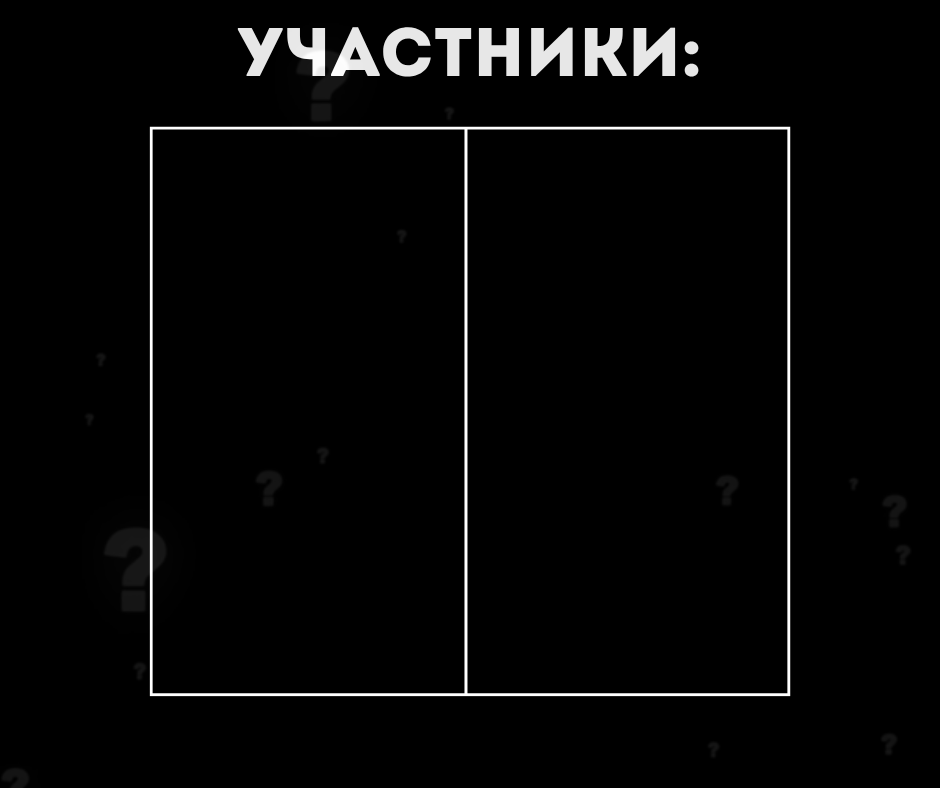
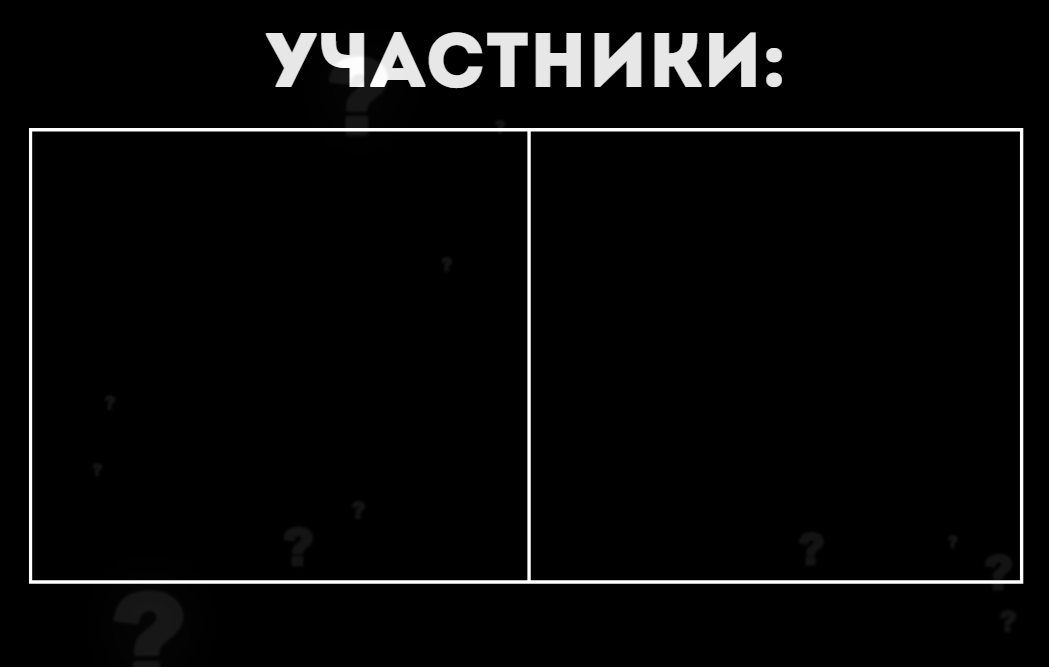
были произведены улучшения и исправления с сообщениями при драфте(с картинками)

Changed region(s): [[0.0309, 0.03, 0.9872, 0.8996], [0.0, 0.2099, 0.0309, 0.8696]]

diff --git a/modules/lobby/lobby.py b/modules/lobby/lobby.py
@@ -101,21 +101,16 @@ class JoinLobbyButton(View):
 
         image_path = generate_lobby_image(players_data, top_ids=top_ids)
 
-        embed = discord.Embed(
-            title="📋 Состав лобби",
-            description="Ник и ранг текущих игроков",
-            color=discord.Color.blurple()
-        )
-        embed.set_image(url="attachment://lobby_dynamic.png")
         file = discord.File(image_path, filename="lobby_dynamic.png")
+        self.lobby.image_message = await self.lobby.channel.send(file=file)
 
         # 🔁 Обновляем изображение в лобби
         if self.lobby.image_message:
             try:
-                await self.lobby.image_message.edit(embed=embed, attachments=[file])
+                await self.lobby.image_message.edit(attachments=[file])
             except Exception as e:
                 logger.warning(f"⚠ Не удалось обновить embed после выхода: {e}")
-                self.lobby.image_message = await self.lobby.channel.send(embed=embed, file=file)
+                self.lobby.image_message = await self.lobby.channel.send(file=file)
 
 
 class Lobby:
@@ -213,23 +208,17 @@ class Lobby:
 
         image_path = generate_lobby_image(players_data, top_ids=top_ids)
 
-        # Создаём embed и отправляем
-        embed = discord.Embed(
-            title="📋 Состав лобби",
-            description="Ник и ранг текущих игроков",
-            color=discord.Color.blurple()
-        )
-        embed.set_image(url="attachment://lobby_dynamic.png")
-
         file = discord.File(image_path, filename="lobby_dynamic.png")
+        await self.image_message.edit(attachments=[file])
+
         if self.image_message:
             try:
-                await self.image_message.edit(embed=embed, attachments=[file])
+                await self.image_message.edit(attachments=[file])
             except Exception as e:
                 logger.warning(f"⚠ Не удалось обновить embed: {e}")
-                self.image_message = await self.channel.send(embed=embed, file=file)
+                self.image_message = await self.channel.send(file=file)
         else:
-            self.image_message = await self.channel.send(embed=embed, file=file)
+            self.image_message = await self.channel.send(file=file)
 
         if len(self.members) >= self.max_players and not self.draft_started:
             self.draft_started = True
@@ -279,20 +268,6 @@ class Lobby:
             }
             await self.channel.edit(overwrites=overwrites)
 
-            embed = discord.Embed(
-                title="✖ Лобби закрыто",
-                description="Набрано максимальное количество игроков.",
-                color=discord.Color.red()
-            )
-
-            captain_1_info = await format_player_name(self.captains[0])
-            captain_2_info = await format_player_name(self.captains[1])
-            embed.add_field(name="⚔ Капитаны выбраны", value=f"♦ {captain_1_info}\n♣ {captain_2_info}", inline=False)
-
-            players_info = [f"- {await format_player_name(m)}" for m in self.members]
-            embed.add_field(name="🎮 Игроки в лобби", value="\n".join(players_info), inline=False)
-            embed.set_footer(text="Переходим к драфту игроков...")
-
             # 🔁 Генерация картинки финального состава
             players_data = []
             for m in self.captains + self.members:
@@ -313,9 +288,8 @@ class Lobby:
 
             image_path = generate_lobby_image(players_data, top_ids=top_ids)
             file = discord.File(image_path, filename="lobby_dynamic.png")
-            embed.set_image(url="attachment://lobby_dynamic.png")
 
-            await self.channel.send(embed=embed, file=file)
+            await self.channel.send(file=file)
             await self.start_draft()
 
             await asyncio.sleep(30) #Переставить потом на 1200
@@ -447,6 +421,13 @@ class PlayerProfileModal(discord.ui.Modal, title="Введите данные п
             await interaction.response.send_message(
                 "❌ Неверный ранг. Пожалуйста, введите правильный ранг из списка:\n"
                 "Iron, Bronze, Silver, Gold, Platinum, Diamond, Ascendant, Immortal, Radiant, Unranked",
+                ephemeral=True
+            )
+            return
+
+        if len(self.lobby.members) >= self.lobby.max_players:
+            await interaction.response.send_message(
+                "❌ Лобби уже заполнено. Попробуйте позже.",
                 ephemeral=True
             )
             return

diff --git a/modules/utils/image_generator.py b/modules/utils/image_generator.py
@@ -1,5 +1,5 @@
 import discord
-from PIL import Image, ImageDraw, ImageFont
+from PIL import Image, ImageDraw, ImageFont, ImageEnhance
 from pathlib import Path
 
 # Пути к файлам
@@ -83,52 +83,58 @@ def generate_lobby_image(players: list[dict], top_ids: list[int] = []):
     return OUTPUT_IMAGE_PATH
 
 def generate_draft_image(players: list[dict], captain_1_id: int, captain_2_id: int):
+    # Картинка подложка
     DRAFT_BASE_PATH = Path(__file__).resolve().parents[1] / "pictures" / "draft_base.png"
+    output_path = Path(__file__).resolve().parents[1] / "pictures" / "draft_dynamic.png"
     image = Image.open(DRAFT_BASE_PATH).convert("RGBA")
     draw = ImageDraw.Draw(image)
 
-    title_font = ImageFont.truetype(str(FONT_PATH), 46)
-    name_font = ImageFont.truetype(str(FONT_PATH), 40)
+    # Шрифты и размеры
+    nickname_font_size = 54
+    line_spacing = 85
+    rank_size = 48
 
-    left_x = 80
-    right_x = 580
-    start_y = 160
-    step_y = 100
+    try:
+        font = ImageFont.truetype(str(FONT_PATH), nickname_font_size)
+    except:
+        font = ImageFont.load_default()
 
-    start_y = 160  # отступ от заголовков на картинке
-    left_x = 120
-    right_x = 540
-
+    # Команды
     team_1 = [p for p in players if p["team"] == "captain_1"]
     team_2 = [p for p in players if p["team"] == "captain_2"]
 
-    def draw_team(team, x, label):
-        rank_icon_offset = 320
-        for i, player in enumerate(team):
-            y = start_y + i * step_y
-            username = player.get("username", "—")
+    def draw_team(team_data, x_text, x_rank, align="left", captain_id=None):
+        total_height = len(team_data) * line_spacing
+        start_y = (image.height - total_height) // 2 + 40
+        y = start_y
+
+        for player in team_data:
+            name = player.get("username", "—")
             rank = player.get("rank", "Unranked")
-            is_captain = player["id"] == (captain_1_id if label == "captain_1" else captain_2_id)
-
-            # Если капитан — выделяем цветом
+            is_captain = player.get("id") == captain_id
             color = "gold" if is_captain else "white"
-            draw.text((x, y), username, font=name_font, fill=color)
 
-            # Иконка ранга
+            draw.text((x_text, y), name, font=font, fill=color, anchor="la" if align == "left" else "ra")
+
             icon_path = get_icon_path(rank)
             if icon_path:
                 try:
-                    icon = Image.open(icon_path).resize((56, 56)).convert("RGBA")
-                    image.paste(icon, (x + rank_icon_offset, y), icon)
+                    icon = Image.open(icon_path).resize((rank_size, rank_size)).convert("RGBA")
+                    image.paste(icon, (x_rank, y), icon)
                 except:
                     pass
 
-    draw_team(team_1, left_x, "captain_1")
-    draw_team(team_2, right_x, "captain_2")
+            y += line_spacing
 
-    output_path = Path(__file__).resolve().parents[1] / "pictures" / "draft_dynamic.png"
+    # Левая колонка
+    draw_team(team_1, x_text=80, x_rank=300, align="left", captain_id=captain_1_id)
+
+    # Правая колонка
+    draw_team(team_2, x_text=830, x_rank=730, align="right", captain_id=captain_2_id)
+
     image.save(output_path)
     return output_path
+
 
 def generate_map_ban_image(available_maps: list[str], banned_maps: list[str], current_captain: str) -> Path:
     WIDTH, HEIGHT = 1000, 700
